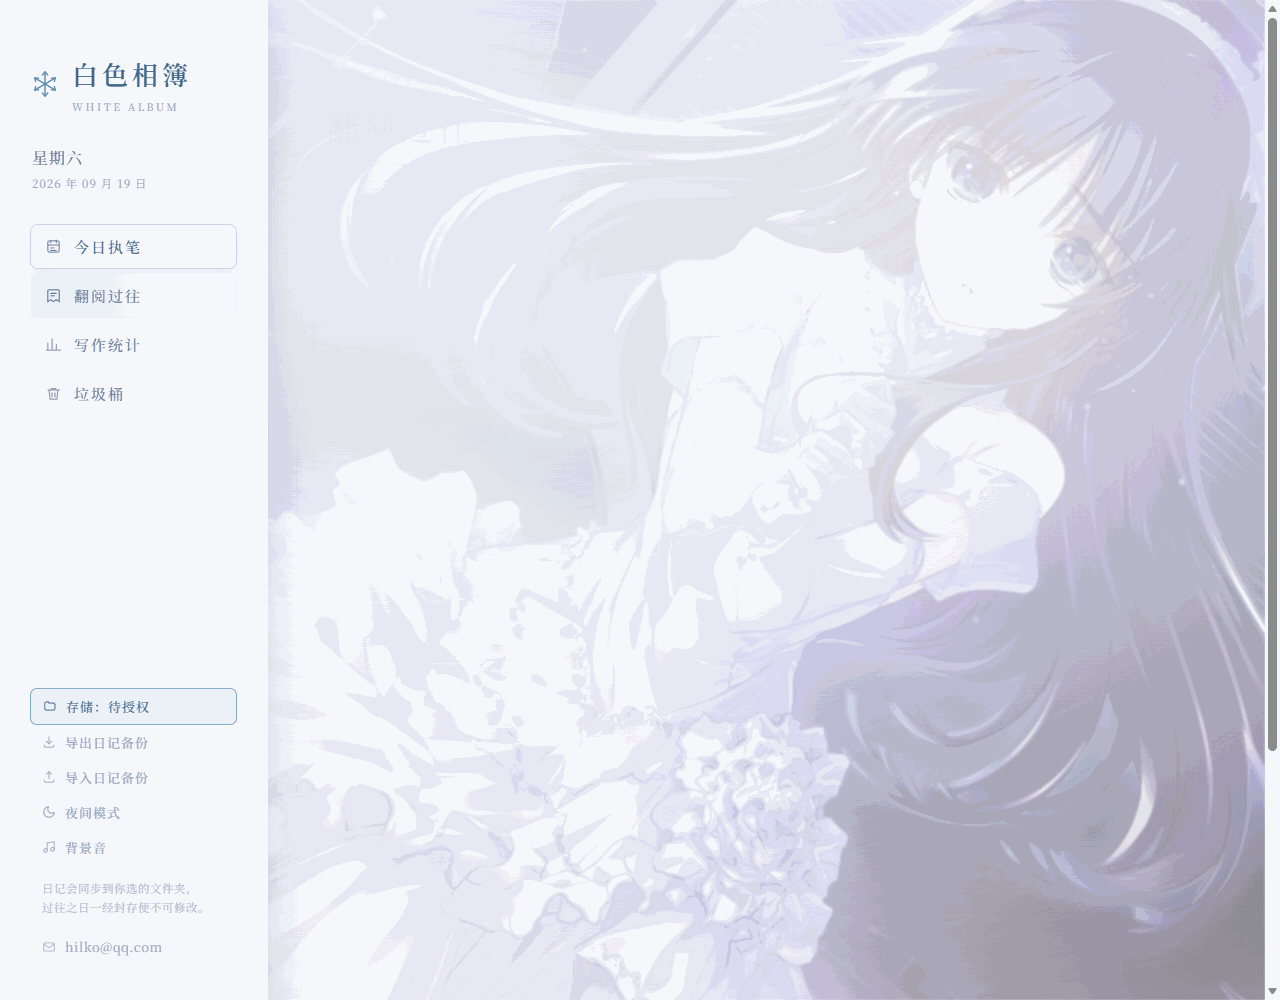
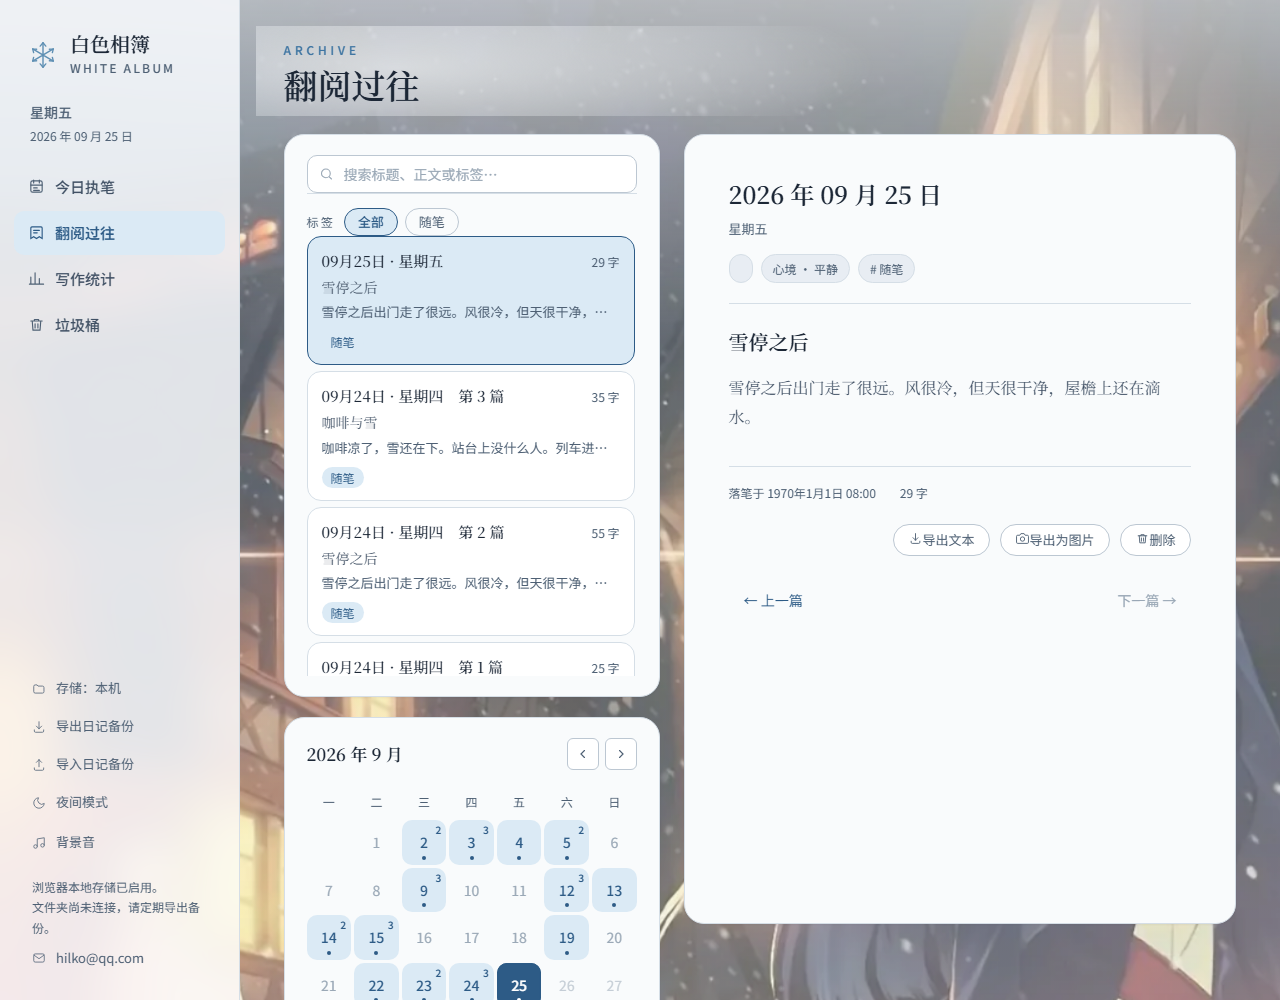
README: document the design system, refresh screenshots
- Replace the five README screenshots with captures of the new design, at
  the same dimensions as before (1280x1000 desktop, 780x1688 mobile) so
  the existing layout markup is unchanged.
- Add a 'Design system' section pointing at DESIGN.md, and update the
  typography sections, tech stack and project layout for the second
  typeface.
- Describe the new atmosphere work: visible wallpaper, the typing feedback
  rework, and the corrected snow layer.
- Note in the changelog that the 2026-09-19 screenshots have been
  superseded.

The image files grew from roughly 100KB each to 450-730KB. That is not an
encoding regression: the old screenshots were of a design whose scrim
washed the wallpaper to near-white and compressed almost perfectly.

diff --git a/README.md b/README.md
@@ -47,7 +47,7 @@
 
 《白色相簿》是一本跑在浏览器里的日记本。整个应用只有一个 `index.html`：不用安装、不用命令行、不用构建，双击就能写；没有服务器、没有账号，写下的内容默认只留在你自己的浏览器里。
 
-视觉上沿用《WHITE ALBUM 2》的白与冰蓝：思源宋体、落雪、壁纸与背景音。它想做的不是「效率工具」，而是一个安静的角落——今天可以慢慢写，写下的会封存，只可重读。
+视觉上沿用《WHITE ALBUM 2》的白与冰蓝，骨架取 macOS 桌面应用的那套设计语言：侧栏是唯一一处大面积的材质玻璃，内容卡片一律实色，层级靠明度与留白而不是靠边框和阴影堆出来。字体分工是刻意的——**你用宋体写字，界面用黑体跟你说话**。落雪、壁纸与背景音负责氛围。它想做的不是「效率工具」，而是一个安静的角落——今天可以慢慢写，写下的会封存，只可重读。
 
 ## 功能特性
 
@@ -69,6 +69,8 @@
 - **正文字号** 7 档：小五 12 / 五号 14 / 小四 16 / 四号 18 / 小三 20 / 小二 24 / 二号 28
 - **正文字重** 7 档：200 – 900
 - 写作区与阅读区共用同一套设置，选择会记在本地；字体用**思源宋体可变字体**，每一档字重都是真字重，而不是浏览器猜出来的伪粗
+- 正文栏宽约 660px（一行约 40 字）、行高 1.8——中文的舒适行长是 30–40 字，空气应该留在文字两侧，而不是堆在行与行之间
+- 界面元素（导航、按钮、标签、表格）走**思源黑体**，最小字号 12px；中文正文不做字距调整（字距只给英文眉题与数字）
 
 ### 翻阅过往
 
@@ -102,7 +104,9 @@
 
 - **背景音**：After All〜綴る想い〜 (Inst.)（WHITE ALBUM 2 OST）或雨声，带音量条；触屏设备上点唱片先展开面板，再点播放 / 暂停
 - **壁纸随视图切换**：今日执笔按日期在日常 / CG 之间轮换，翻阅过往是小镇静景，写作统计是夜空，垃圾桶是那张专用的
+- **壁纸看得见，文字也看得清**：遮罩强度、壁纸不透明度与卡片不透明度是一组参数一起调的——壁纸退、卡片实，而不是把画面整个漂白
 - **落雪与浮光**：Canvas 绘制的雪花，跟随窗口尺寸重排；页面切到后台会暂停，并尊重系统的「减少动态效果」设置
+- **打字反馈**：每敲一个字，光标处会晕开一小点冰蓝墨迹（上限 6 个并发）；按「保存今日」时会散开五片冰晶——同一批元素，从持续装饰改成仪式时刻的一次性反馈
 
 ## 快速开始
 
@@ -124,17 +128,28 @@
 | 层面 | 选型 |
 | --- | --- |
 | 界面 | 原生 HTML / CSS / JavaScript，无框架、无构建 |
-| 排版 | 思源宋体可变字重（Fontsource CDN） |
+| 排版 | 思源宋体（正文与标题）+ 思源黑体（界面），均为可变字重（Fontsource CDN） |
 | 图表 | [ECharts](https://echarts.apache.org/) 5.5.1 |
 | 长图导出 | [html2canvas-pro](https://github.com/yorickshan/html2canvas-pro) 2.4.3 |
 | 存储 | localStorage · IndexedDB · File System Access API |
 | 托管 | GitHub Pages |
+
+## 设计系统
+
+界面不是「调出来」的，是按一套写下来的规矩做的，完整规格在 [`DESIGN.md`](DESIGN.md)：
+
+- **令牌层**：所有颜色、字号、圆角、间距、时长都先定义成语义令牌（`--surface` / `--text-muted` / `--accent` / `--fs-1…11` / `--r-*` / `--z-*`），组件只引用令牌。暗色主题重新映射同一批令牌，而不是另写一套样式
+- **层级**：z-index 是一条固定的标尺（内容 0 / 导航 100 / 浮层 300 / Toast 400），不再各自写魔法数字
+- **材质**：玻璃只给导航层（侧栏、Toast、模态）；内容卡片全部实色，正文永远不会坐在半透明上
+- **可读性**：功能性与次要文字按 WCAG AA（4.5:1）验收，实测四个视图最坏值 5.0:1 以上
+- **动效**：曲线与弹簧用 Apple 的那一套（默认不弹），时长只留 100 / 150 / 200 / 300ms 四档；`prefers-reduced-motion`、`prefers-reduced-transparency`、`prefers-contrast` 都有对应处理
 
 ## 项目结构
 
 ```
 white-album-diary/
 ├── index.html              整个应用：HTML + CSS + JS 全部在这里
+├── DESIGN.md               设计系统规格（令牌表、组件规范、Do's and Don'ts）
 ├── wallpaper-day.jpg       壁纸 · 日常（今日执笔，与 CG 按日期轮换）
 ├── wallpaper-cg.jpg        壁纸 · CG（今日执笔，与日常按日期轮换）
 ├── wallpaper-town.jpg      壁纸 · 小镇（翻阅过往）
@@ -144,6 +159,7 @@ white-album-diary/
 ├── cover-introductory.jpg  唱片封面 · 背景音乐
 ├── cover-rain.svg          唱片封面 · 雨声
 ├── docs/                   README 用截图
+│   └── agents/             给 AI 代理看的仓库约定
 └── README.md
 ```
 
@@ -153,7 +169,7 @@ white-album-diary/
 
 - 第三方库（ECharts、html2canvas-pro）优先走国内镜像（阿里 npmmirror），实测 388KB 的 ECharts 只要 0.2 秒；取不到时自动回落到 jsDelivr
 - 壁纸改成用到哪张才下载哪张，并且是 WebP（单张 45–146KB）：线上从 jsDelivr 取，国内直连实测 0.7 秒左右，比直连 github.io 快 7–10 倍；取不到时退回同目录文件
-- 字体留在 jsDelivr——字体文件需要跨域头，国内镜像不提供
+- 字体留在 jsDelivr——字体文件需要跨域头，国内镜像不提供。两套可变字体（宋体 + 黑体）都是按需分片加载的，首屏只取用到的子集
 - 唱片封面用懒加载，页面稳定后再补下载，不占首屏带宽
 
 目前唯一还偏慢的是首页 HTML 本身（仍然来自 GitHub Pages，国内直连首次打开约 2–6 秒）。把整站搬到国内对象存储或 Cloudflare Pages 可以再进一步，但需要另外的账号，且换域名后浏览器里已有的日记需要通过「导出 / 导入备份」迁移。
@@ -182,7 +198,8 @@ GitHub Pages 有缓存，下拉刷新或强刷一次。
 
 ## 更新记录
 
-- **2026-09-19** 正文排版升级：字号 / 字重下拉选择器，改用真正的思源宋体可变字重
+- **2026-09-25** 视觉系统重构：建立设计令牌层并重做四个视图的布局与层级；内容卡片改实色、玻璃只留导航层；正文栏宽 900→660px、行高 2.1→1.8；引入思源黑体专用于界面；修复雪花被壁纸遮住的问题；重做打字反馈（每次击键的墨点 + 保存时的冰晶）；补齐图片灯箱的键盘与 Esc 关闭。规格见 [`DESIGN.md`](DESIGN.md)
+- **2026-09-19** 正文排版升级：字号 / 字重下拉选择器，改用真正的思源宋体可变字重。**注意**：此版本的截图已被上面这次重构取代
 - **2026-09-16** 移动端重构：顶栏重排、触屏交互、垃圾桶壁纸
 
 ## 许可证
@@ -193,7 +210,7 @@ GitHub Pages 有缓存，下拉刷新或强刷一次。
 
 - 名字与气质来自《WHITE ALBUM 2》，音乐版权归 AQUAPLUS 所有，本项目是非商业的个人练习
 - 雨声用的是网易云音乐上的雨声音源（国内可直连），连不上时回落到 [Rainy Mood](https://rainymood.com/)
-- 字体为思源宋体（SIL Open Font License 1.1）；图表 [ECharts](https://echarts.apache.org/)（Apache-2.0）、长图导出 [html2canvas-pro](https://github.com/yorickshan/html2canvas-pro)（MIT）
+- 字体为思源宋体（正文与标题）与思源黑体（界面），均为 SIL Open Font License 1.1；图表 [ECharts](https://echarts.apache.org/)（Apache-2.0）、长图导出 [html2canvas-pro](https://github.com/yorickshan/html2canvas-pro)（MIT）
 - 壁纸与封面图片来自网络，版权归原作者所有，仅供个人学习与欣赏，请勿商用
 - 反馈与建议：hilko@qq.com
 
@@ -205,7 +222,7 @@ GitHub Pages 有缓存，下拉刷新或强刷一次。
 
 White Album is a diary that runs entirely in your browser. The whole app is a single `index.html`: nothing to install, no build step, no command line — just open the file. There is no server and no account, and everything you write stays on your own machine by default.
 
-Visually it follows the white-and-ice-blue mood of *WHITE ALBUM 2*: a serif Chinese typeface, falling snow, wallpapers and background music. It is not meant to be a productivity tool, but a quiet corner — you can take your time today, and once the day is over, the page is sealed and only readable.
+Visually it follows the white-and-ice-blue mood of *WHITE ALBUM 2*, built on the design language of a macOS desktop app: the sidebar is the only place with a large glass surface, content cards are solid, and hierarchy comes from lightness and whitespace rather than stacked borders and shadows. The typeface split is deliberate — **you write in a serif; the interface talks to you in a sans**. Falling snow, wallpapers and background music carry the atmosphere. It is not meant to be a productivity tool, but a quiet corner — you can take your time today, and once the day is over, the page is sealed and only readable.
 
 ## Features
 
@@ -227,6 +244,8 @@ Visually it follows the white-and-ice-blue mood of *WHITE ALBUM 2*: a serif Chin
 - **Font size**, 7 steps (12 / 14 / 16 / 18 / 20 / 24 / 28 px)
 - **Font weight**, 7 steps (200 – 900)
 - Writing and reading views share one setting, remembered locally. The typeface is a **variable-weight Noto Serif SC**, so every weight is a real weight rather than a synthetic bold.
+- The prose column is about 660px wide (roughly 40 Chinese characters per line) with a 1.8 line height — the comfortable measure for Chinese is 30–40 characters, so the air belongs beside the text, not between the lines
+- UI elements (navigation, buttons, tags, tables) use **Noto Sans SC** with a 12px floor; Chinese text is never letter-spaced (tracking is reserved for Latin eyebrows and numerals)
 
 ### Archive
 
@@ -260,7 +279,9 @@ Visually it follows the white-and-ice-blue mood of *WHITE ALBUM 2*: a serif Chin
 
 - **Background audio** — *After All〜綴る想い〜 (Inst.)* from the WHITE ALBUM 2 soundtrack, or rain, with a volume slider. On touch devices, tapping the disc opens the panel first, then plays / pauses.
 - **Wallpapers that follow the view** — the writing view alternates between two by date, the archive uses a quiet town, statistics uses a night sky, and the trash has its own
+- **A visible wallpaper without losing the text** — scrim strength, wallpaper opacity and card opacity are tuned as one parameter set: the wallpaper recedes, the cards stay solid, rather than washing the whole screen out
 - **Snow and drifting light** — drawn on a canvas, re-seeded on resize, paused while the tab is hidden, and skipped entirely under `prefers-reduced-motion`
+- **Typing feedback** — every keystroke blooms a small ice-blue ink dot at the caret (capped at 6 concurrent); pressing “Save today” scatters five snowflakes. The same elements, moved from constant decoration to a one-off ritual moment.
 
 ## Getting started
 
@@ -282,22 +303,34 @@ Visually it follows the white-and-ice-blue mood of *WHITE ALBUM 2*: a serif Chin
 | Layer | Choice |
 | --- | --- |
 | UI | Vanilla HTML / CSS / JavaScript — no framework, no build |
-| Typography | Noto Serif SC, variable weight (Fontsource CDN) |
+| Typography | Noto Serif SC (prose and titles) + Noto Sans SC (UI), both variable weight (Fontsource CDN) |
 | Charts | [ECharts](https://echarts.apache.org/) 5.5.1 |
 | Image export | [html2canvas-pro](https://github.com/yorickshan/html2canvas-pro) 2.4.3 |
 | Storage | localStorage · IndexedDB · File System Access API |
 | Hosting | GitHub Pages |
+
+## Design system
+
+The interface is not eyeballed — it follows a written spec, kept in [`DESIGN.md`](DESIGN.md):
+
+- **Tokens first** — every colour, type size, radius, spacing step and duration is a semantic token (`--surface` / `--text-muted` / `--accent` / `--fs-1…11` / `--r-*` / `--z-*`), and components only reference tokens. The dark theme remaps the same tokens instead of restating every rule.
+- **Elevation** — z-index is a fixed ruler (content 0 / chrome 100 / overlays 300 / toast 400) rather than per-component magic numbers.
+- **Material** — glass is reserved for the navigation layer (sidebar, toast, modals); content cards are solid, so body text never sits on something translucent.
+- **Legibility** — functional and secondary text are held to WCAG AA (4.5:1); the worst measured value across the four views is above 5.0:1.
+- **Motion** — curves and springs follow Apple's set (critically damped by default), durations come in four steps (100 / 150 / 200 / 300ms), and `prefers-reduced-motion`, `prefers-reduced-transparency` and `prefers-contrast` are all handled.
 
 ## Project layout
 
 ```
 white-album-diary/
 ├── index.html              the entire app: HTML + CSS + JS
+├── DESIGN.md               the design system spec (tokens, components, do's and don'ts)
 ├── wallpaper-*.jpg         wallpapers (day / CG / town / night / trash)
 ├── wallpaper-*.webp        the WebP versions actually loaded by the page
 ├── cover-introductory.jpg  album cover for the background music
 ├── cover-rain.svg          album cover for the rain sound
 ├── docs/                   screenshots used by this README
+│   └── agents/             repo conventions for AI agents
 └── README.md
 ```
 
@@ -342,6 +375,6 @@ Released under the [MIT License](LICENSE) — free to use, modify and distribute
 
 - Name and mood inspired by *WHITE ALBUM 2*; the music belongs to AQUAPLUS. This is a non-commercial personal practice project.
 - Rain: a track hosted on NetEase Cloud Music (reachable from mainland China), falling back to [Rainy Mood](https://rainymood.com/)
-- Typeface: Noto Serif SC (SIL Open Font License 1.1); charts by [ECharts](https://echarts.apache.org/) (Apache-2.0); long-image export by [html2canvas-pro](https://github.com/yorickshan/html2canvas-pro) (MIT)
+- Typefaces: Noto Serif SC (prose and titles) and Noto Sans SC (UI), both SIL Open Font License 1.1; charts by [ECharts](https://echarts.apache.org/) (Apache-2.0); long-image export by [html2canvas-pro](https://github.com/yorickshan/html2canvas-pro) (MIT)
 - Wallpaper and cover images come from the internet and remain the property of their original authors; they are included for personal, non-commercial use only
 - Feedback and suggestions: hilko@qq.com
